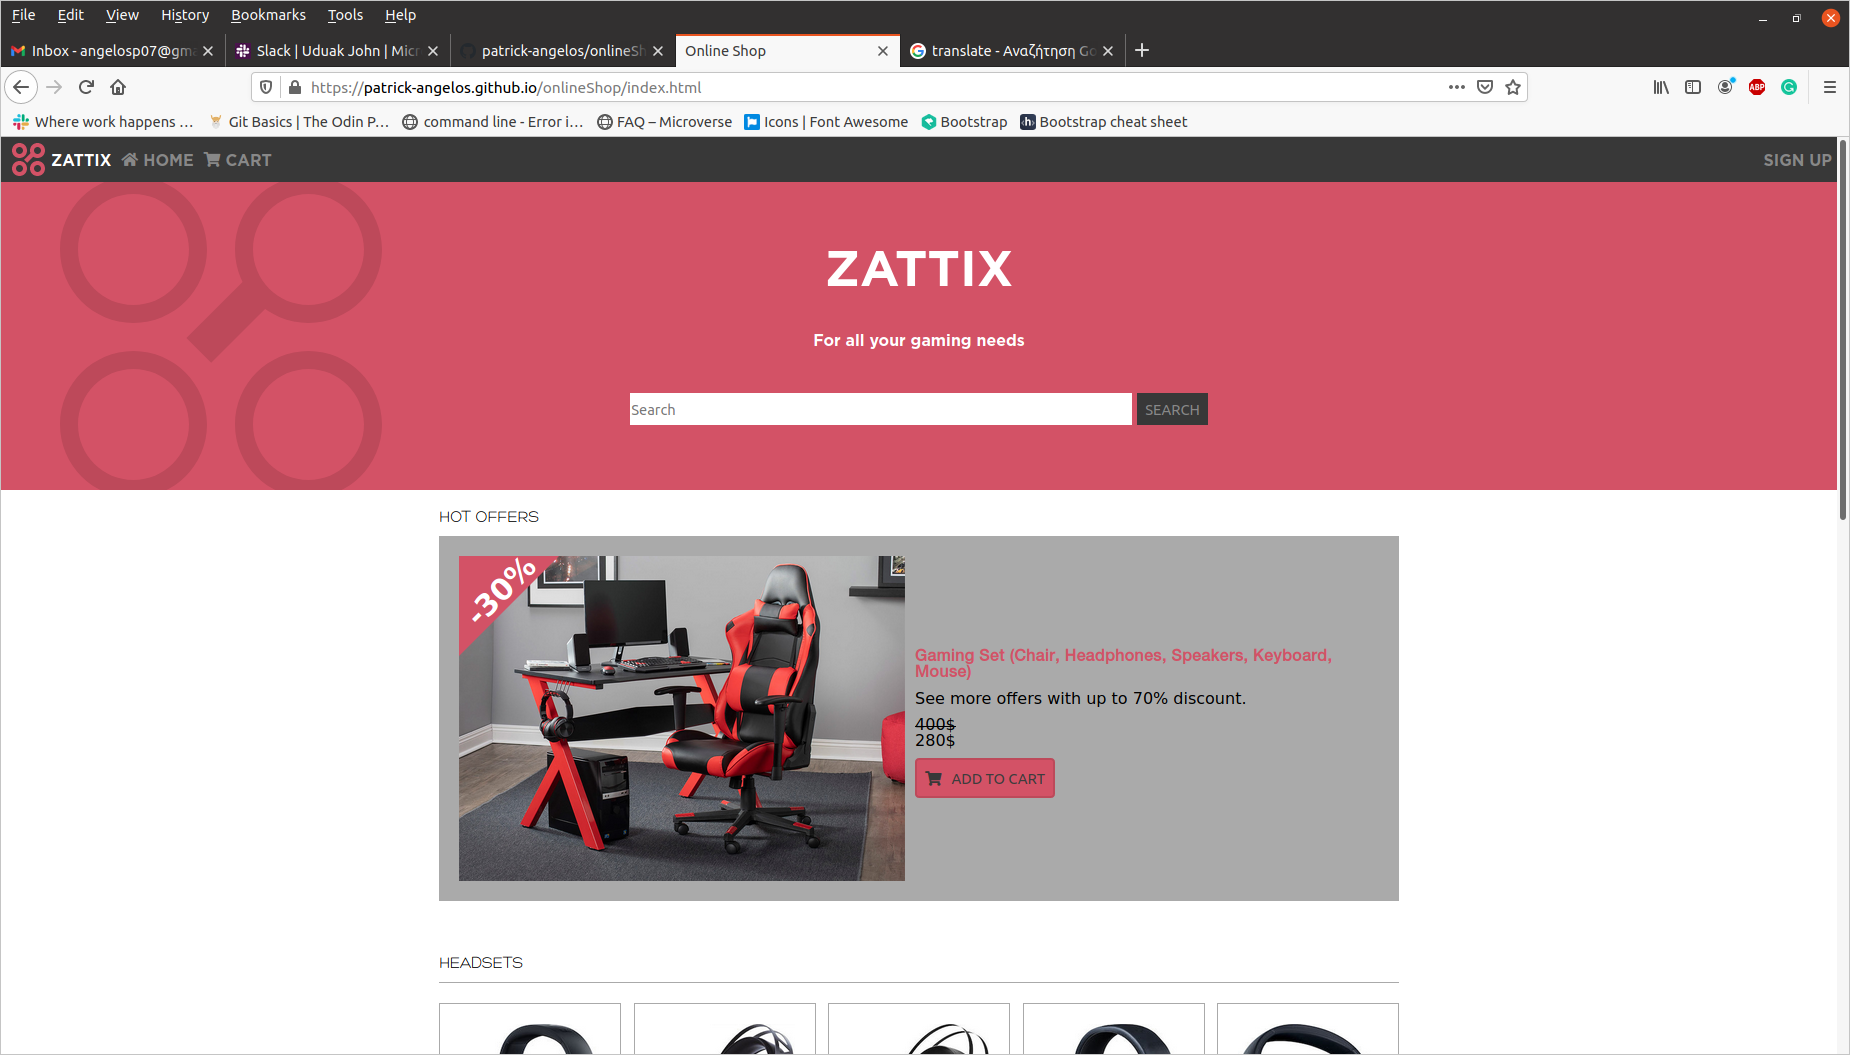
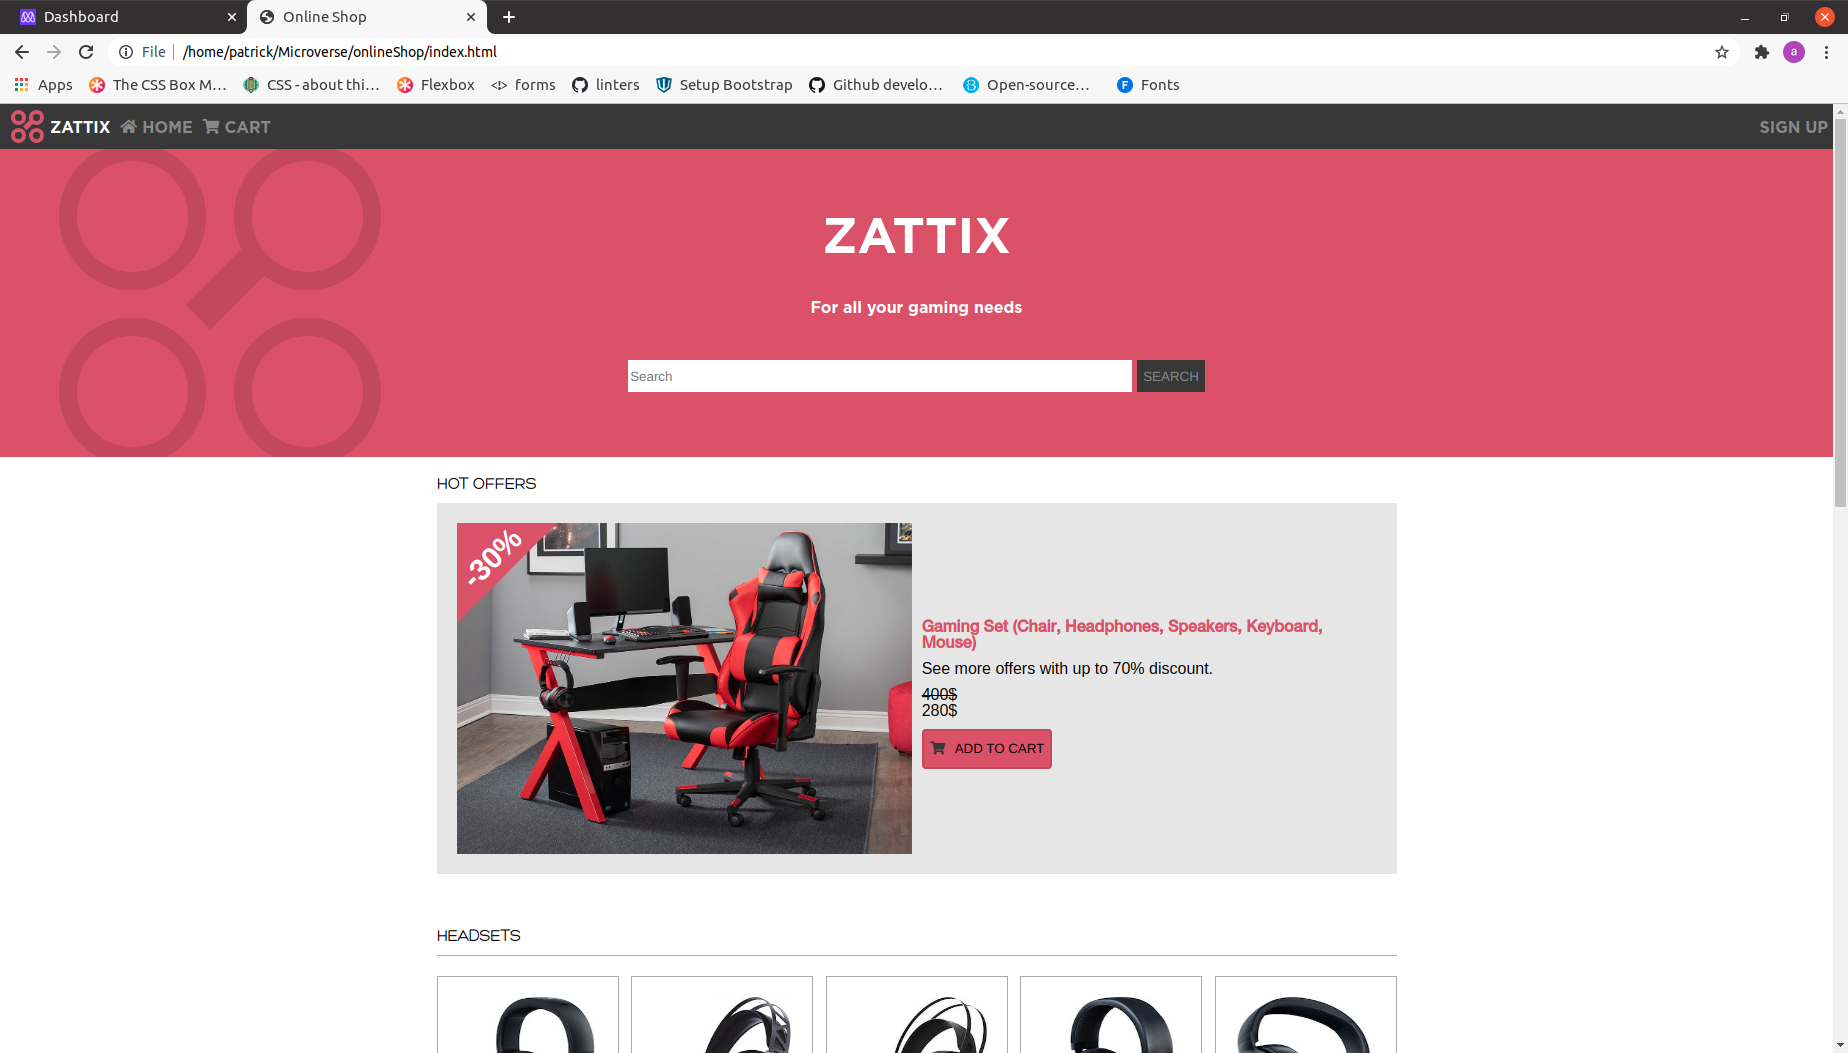
Change offer background and checkbox options

diff --git a/html/search-result.html b/html/search-result.html
@@ -96,7 +96,7 @@
                                 </div>
                                 <div class="mt-5 ml-10">
                                     <input type="checkbox" id="luck" name="manufacturer" value="luck">
-                                    <label for="luck"> Luck </label>
+                                    <label for="luck"> Family Games </label>
                                 </div>
                             </div>
                         </div>
@@ -121,7 +121,7 @@
                                 </div>
                                 <div class="ml-10">
                                     <input type="checkbox" id="more5" name="players" value="more5">
-                                    <label for="more5"> More than 5</label><br class="hide-mobile">
+                                    <label for="more5"> + 5</label><br class="hide-mobile">
                                 </div>
                             </div>
                         </div>
@@ -129,20 +129,20 @@
                             <p class="form-cat color-pink">Price Range</p>
                             <div class="mt-10 flex-mobile flex-wrap">
                                 <div class="ml-10">
-                                    <input type="radio" id="below10" name="price" value="below10">
-                                    <label for="below10"> Below 10$</label><br class="hide-mobile">
+                                    <input type="radio" id="to10" name="price" value="below10">
+                                    <label for="below10"> 5$ - 10$</label><br class="hide-mobile">
                                 </div>
                                 <div class="ml-10 mt-5">
                                     <input type="radio" id="to25" name="price" value="to25">
-                                    <label for="to25"> Up to 25$</label><br class="hide-mobile">
+                                    <label for="to25"> 10$ - 25$</label><br class="hide-mobile">
                                 </div>
                                 <div class="ml-10 mt-5">
                                     <input type="radio" id="to60" name="price" value="to60">
-                                    <label for="to60"> Up to 60$</label><br class="hide-mobile">
+                                    <label for="to60"> 25$ - 60$</label><br class="hide-mobile">
                                 </div>
                                 <div class="ml-10 mt-5">
                                     <input type="radio" id="more60" name="price" value="more60">
-                                    <label for="more60"> More than 60$</label><br class="hide-mobile">
+                                    <label for="more60"> + 60$</label><br class="hide-mobile">
                                 </div>
 
                             </div>

diff --git a/index.html b/index.html
@@ -78,7 +78,7 @@
         <div class="container">
             <section class="offer ph-20">
                 <h2 class="block color-gray g-rounded bold"><a href="#">HOT OFFERS</a></h2>
-                <div class="flex-tablet bg-lightGray p-20 mt-10">
+                <div class="flex-tablet bg-verylightGray p-20 mt-10">
                     <div class="p-relative main-offer">
                         <div class="p-absolute discount-tag"><p class="color-white p-absolute discount-price">-30%</p></div>
                         <img class="offer-img block card-img" src="images/gamingSet.jpg" alt="Gaming Set">

diff --git a/styles.css b/styles.css
@@ -118,6 +118,14 @@
   background-color: #aaaaaa;
 }
 
+.color-verylightGray {
+  color: #e6e6e6;
+}
+
+.bg-verylightGray {
+  background-color: #e6e6e6;
+}
+
 .p-absolute {
   position: absolute;
 }

diff --git a/sass/_utilities.scss b/sass/_utilities.scss
@@ -5,6 +5,7 @@ $colors: (
   darkpink: $darkPink,
   white: rgb(255, 255, 255),
   lightGray: $lightGray,
+  verylightGray: $verylightGray,
 );
 
 $positions: (

diff --git a/sass/_variables.scss b/sass/_variables.scss
@@ -3,3 +3,4 @@ $gray : #888;
 $darkGray: #383838;
 $lightGray: rgb(170, 170, 170);
 $darkPink: #bd495a;
+$verylightGray: rgb(230, 230, 230);
